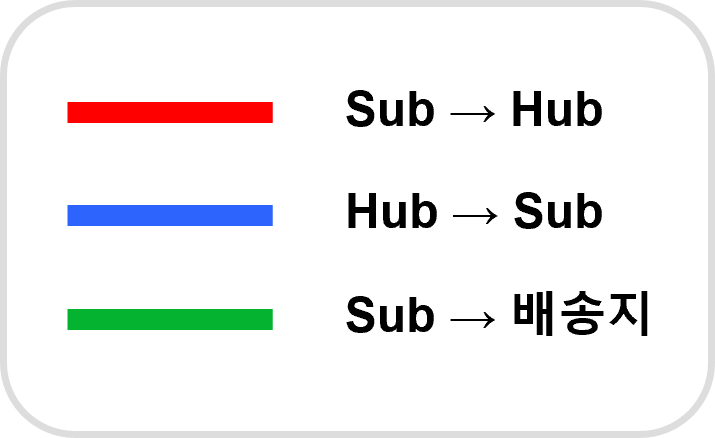
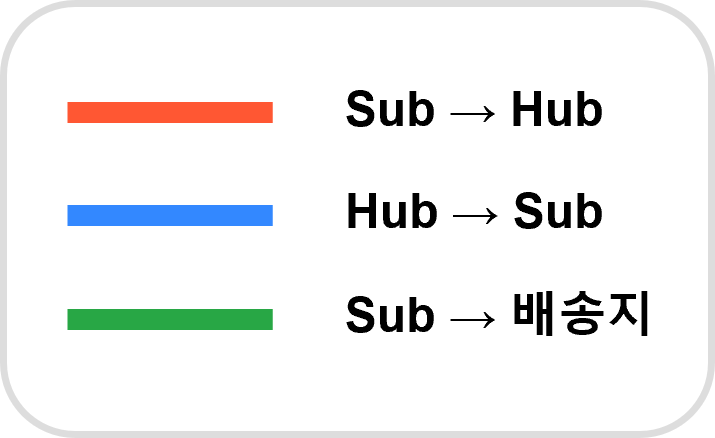
style:

Changed region(s): [[0.0923, 0.6826, 0.4, 0.7717], [0.0923, 0.4452, 0.4, 0.5342], [0.0923, 0.2078, 0.4, 0.2968]]

diff --git a/src/main/resources/static/css/mapstyles.css b/src/main/resources/static/css/mapstyles.css
@@ -7,7 +7,7 @@
 body {
     font-family: Arial, sans-serif;
     display: flex;
-    height: auto; /* 스크롤이 가능하도록 */
+    flex-direction: column; /* 세로로 정렬 */
     min-height: 100vh; /* 최소 높이를 화면 전체로 유지 */
     overflow-y: auto; /* 브라우저 스크롤 활성화 */
 }
@@ -19,24 +19,22 @@ main {
         "map dashboard"
         "controls dashboard";
     grid-template-columns: 2fr 1fr;
-    grid-template-rows: 1fr auto;
+    grid-template-rows: auto 1fr; /* 비율 조정 */
     align-items: stretch; /* 같은 높이로 확장 */
-    gap: 10px;
+    gap: 12px;
     padding: 10px;
+    padding-top: 75px;
     width: calc(100% - 220px); /* 전체 폭에서 사이드바 폭 제외 */
-    height: 100vh; /* 전체 높이를 화면에 맞춤 */
-    overflow: hidden; /* 내부 요소가 넘치지 않도록 */
+    min-height: calc(100vh - 75px); /* 헤더를 제외한 화면 높이 */
 }
 
 .map {
     grid-area: map;
     background-color: #e0e0e0;
-    height: calc(100vh - 240px); /* 컨트롤 패널과 대시보드 높이를 고려한 지도 높이 */
-    min-height: 500px;
+    min-height: 450px;
     border: 1px solid #ccc;
     border-radius: 5px;
-    overflow: hidden; /* 지도 영역이 넘치지 않도록 설정 */
-    position: relative; /* 자식 요소 위치 기준을 이 요소로 설정 */
+    position: relative;
 }
 
 .map-overlay-image {
@@ -51,97 +49,169 @@ main {
 /* 컨트롤 패널 전체 정리 */
 .controls {
     display: flex;
-    flex-direction: column;
-    gap: 15px;
+    justify-content: space-between;
+    gap: 20px;
     background-color: #fff;
     padding: 15px;
     border: 1px solid #ccc;
     border-radius: 8px;
-}
-
-/* 출발 창고 & 주소 입력 */
-.input-group {
-    display: flex;
-    align-items: center;
-    gap: 10px;
-}
-
-.input-group label {
-    font-size: 14px;
-    font-weight: bold;
-}
-
-.input-group input,
-.input-group select {
-    padding: 8px;
-    border: 1px solid #ccc;
-    border-radius: 5px;
-}
-
-/* 배송지 위도/경도 */
-.coordinate-group {
-    display: flex;
-    gap: 10px;
     align-items: center;
 }
 
-.coordinate-group input {
-    padding: 8px;
-    border: 1px solid #ccc;
-    border-radius: 5px;
-}
-
-/* 버튼 정리 */
-.button-group {
+/* 각 섹션(출발 창고, 배송지 입력, 버튼 그룹) */
+.section {
+    flex: 1;
     display: flex;
     flex-direction: column;
     gap: 10px;
 }
 
-/* 경로 선택 버튼 */
-.route-buttons {
+/* 섹션 사이 구분선 */
+.section:not(:last-child) {
+    border-right: 1px solid #ddd;
+    padding-right: 20px;
+}
+
+/* 출발 창고 */
+.start-group select {
+    padding: 8px;
+    border: 1px solid #ccc;
+    border-radius: 5px;
+}
+
+/* 주소 입력 */
+.input-row {
     display: flex;
+    gap: 10px;
+    align-items: center;
+}
+
+.input-row input {
+    flex: 1;
+    padding: 10px; /* 크기 키우기 */
+    border: 1px solid #ccc;
+    border-radius: 5px;
+    width: 250px; /* 기존보다 넓게 */
+}
+
+.input-row button {
+    padding: 8px;
+    background-color: #007bff;
+    color: white;
+    border: none;
+    border-radius: 5px;
+    cursor: pointer;
+}
+
+/* 위도/경도 입력, 한 줄 배치 */
+.coordinate-row {
+    display: flex;
+    align-items: center;
     gap: 10px;
 }
 
-.route-buttons button {
-    flex: 1;
-    padding: 10px;
-    font-size: 14px;
+.coordinate-row input {
+    padding: 8px;
+    width: 90px;
+    border: 1px solid #ccc;
     border-radius: 5px;
-    cursor: pointer;
+}
+
+/* 버튼 그룹 */
+.button-group {
+    display: grid;
+    grid-template-columns: repeat(2, 1fr);
+    gap: 12px;
+}
+
+/* 버튼 스타일 */
+.button-group button {
+    padding: 14px;
+    font-size: 16px;
+    font-weight: bold;
     border: none;
+    border-radius: 10px;
+    cursor: pointer;
+    transition: all 0.2s ease-in-out;
+    box-shadow: 0 4px 6px rgba(0, 0, 0, 0.1);
 }
 
+/* 버튼 색상 및 효과 */
 #default_btn {
-    background-color: #007bff;
+    background-color: #007aff;
     color: white;
 }
 
+#default_btn:hover {
+    background-color: #005ecb;
+}
+
+#default_btn:active {
+    background-color: #0047a3;
+    transform: scale(0.95);
+}
+
+/* 지하철 창고 */
 #subway_btn {
-    background-color: #28a745;
+    background-color: #007aff;
     color: white;
 }
 
+#subway_btn:hover {
+    background-color: #005ecb;
+}
+
+#subway_btn:active {
+    background-color: #0047a3;
+    transform: scale(0.95);
+}
+
+/* 경로 비교 */
+#compare_routes_btn {
+    background-color: #007aff;
+    color: white;
+}
+
+#compare_routes_btn:hover {
+    background-color: #005ecb;
+}
+
+#compare_routes_btn:active {
+    background-color: #0047a3;
+    transform: scale(0.95);
+}
+
+/* 지도 초기화 */
+#reset_btn {
+    background-color: #007aff;
+    color: white;
+}
+
+#reset_btn:hover {
+    background-color: #005ecb;
+}
+
+#reset_btn:active {
+    background-color: #0047a3;
+    transform: scale(0.95);
+}
 
 .dashboard {
     grid-area: dashboard;
-    display: flex;
-    flex-direction: column;
-    gap: 10px;
     background-color: #fff;
-    padding: 10px;
+    padding: 12px;
     border: 1px solid #ccc;
     border-radius: 5px;
-    height: 100%; /* `main` 내에서 자동으로 확장 */
     overflow-y: auto; /* 내부 스크롤 활성화 */
-    font-size: 12px;
+    display: flex;
+    flex-direction: column;
+    height: 100%; /* `main` 내에서 자동으로 확장 */
 }
 
 .cards-container {
     display: grid;
     grid-template-columns: repeat(auto-fit, minmax(200px, 1fr)); /* 반응형 카드 */
-    gap: 20px; /* 카드 간 간격 */
+    gap: 15px; /* 카드 간 간격 */
 }
 
 .card {
@@ -159,7 +229,7 @@ main {
 }
 
 .card p {
-    font-size: 14px;
+    font-size: 13px;
     margin: 5px 0;
 }
 
@@ -244,6 +314,13 @@ button:hover {
         flex-direction: column;
     }
 
+    .section:not(:last-child) {
+        border-right: none;
+        padding-right: 0;
+        border-bottom: 1px solid #ddd;
+        padding-bottom: 15px;
+    }
+
     .input-group,
     .coordinate-group,
     .button-group {
@@ -251,8 +328,7 @@ button:hover {
         gap: 5px;
     }
 
-    .route-buttons,
-    .action-buttons {
-        flex-direction: column;
+    .button-group {
+        grid-template-columns: 1fr; /* 버튼을 한 줄로 정렬 */
     }
 }

diff --git a/src/main/resources/static/js/map_script.js b/src/main/resources/static/js/map_script.js
@@ -238,7 +238,7 @@ $(document).ready(function() {
         if (data.subway_route && data.subway_route.length > 0) {
             var subwayPolyline = new Tmapv2.Polyline({
                 path: data.subway_route.map(coord => new Tmapv2.LatLng(coord[1], coord[0])),
-                strokeColor: "#2E64FE",
+                strokeColor: "#3388FF",
                 strokeWeight: 6,
                 map: map
             });
@@ -249,7 +249,7 @@ $(document).ready(function() {
         if (data.driving_route && data.driving_route.length > 0) {
             var drivingPolyline = new Tmapv2.Polyline({
                 path: data.driving_route.map(coord => new Tmapv2.LatLng(coord[0], coord[1])),
-                strokeColor: "#04B431",
+                strokeColor: "#28A745",
                 strokeWeight: 6,
                 map: map
             });
@@ -350,7 +350,7 @@ $(document).ready(function() {
         if (data.parcel.to_hub_route && data.parcel.to_hub_route.length > 0) {
             const toHubPolyline = new Tmapv2.Polyline({
                 path: data.parcel.to_hub_route.map(coord => new Tmapv2.LatLng(coord[0], coord[1])),
-                strokeColor: "#FF0000", // 빨간색 #FF0000
+                strokeColor: "#FF5733",
                 strokeWeight: 6,
                 map: map
             });
@@ -360,7 +360,7 @@ $(document).ready(function() {
         if (data.parcel.from_hub_route && data.parcel.from_hub_route.length > 0) {
             const fromHubPolyline = new Tmapv2.Polyline({
                 path: data.parcel.from_hub_route.map(coord => new Tmapv2.LatLng(coord[0], coord[1])),
-                strokeColor: "#FF0000", // 주황색 #FFA500
+                strokeColor: "#FF5733",
                 strokeWeight: 6,
                 map: map
             });
@@ -370,7 +370,7 @@ $(document).ready(function() {
         if (data.parcel.to_destination_route && data.parcel.to_destination_route.length > 0) {
             const toDestinationPolyline = new Tmapv2.Polyline({
                 path: data.parcel.to_destination_route.map(coord => new Tmapv2.LatLng(coord[0], coord[1])),
-                strokeColor: "#FF0000", // 노란색 #FFFF00
+                strokeColor: "#FF5733",
                 strokeWeight: 6,
                 map: map
             });
@@ -383,7 +383,7 @@ $(document).ready(function() {
             if (selectedRoute.subway_route && selectedRoute.subway_route.length > 0) {
                 const subwayPolyline = new Tmapv2.Polyline({
                     path: selectedRoute.subway_route.map(coord => new Tmapv2.LatLng(coord[0], coord[1])),
-                    strokeColor: "#2E64FE", // 파란색 #0000FF
+                    strokeColor: "#3388FF",
                     strokeWeight: 6,
                     map: map
                 });
@@ -394,7 +394,7 @@ $(document).ready(function() {
         if (selectedRoute.driving_route && selectedRoute.driving_route.length > 0) {
             const drivingPolyline = new Tmapv2.Polyline({
                 path: selectedRoute.driving_route.map(coord => new Tmapv2.LatLng(coord[0], coord[1])),
-                strokeColor: "#2E64FE", // 초록색
+                strokeColor: "#3388FF",
                 strokeWeight: 6,
                 map: map
             });
@@ -419,7 +419,7 @@ $(document).ready(function() {
 
         // 대시보드 업데이트
         $(".dashboard").empty();
-        $(".dashboard").append(`<h3>이동 경로 비교 결과</h3>`);
+        // $(".dashboard").append(`<h3>이동 경로 비교 결과</h3>`);
 
         // 감소율 계산 함수
         function calculateReduction(original, newValue) {
@@ -605,7 +605,7 @@ $(document).ready(function() {
 
         // 대시보드를 초기 템플릿 상태로 복원
         $(".dashboard").empty();
-        $(".dashboard").append(`<h3>Dashboard</h3>`);
+        // $(".dashboard").append(`<h3>Dashboard</h3>`);
         $(".dashboard").append(initialDashboardTemplate);
 
         // 이미지 제거
